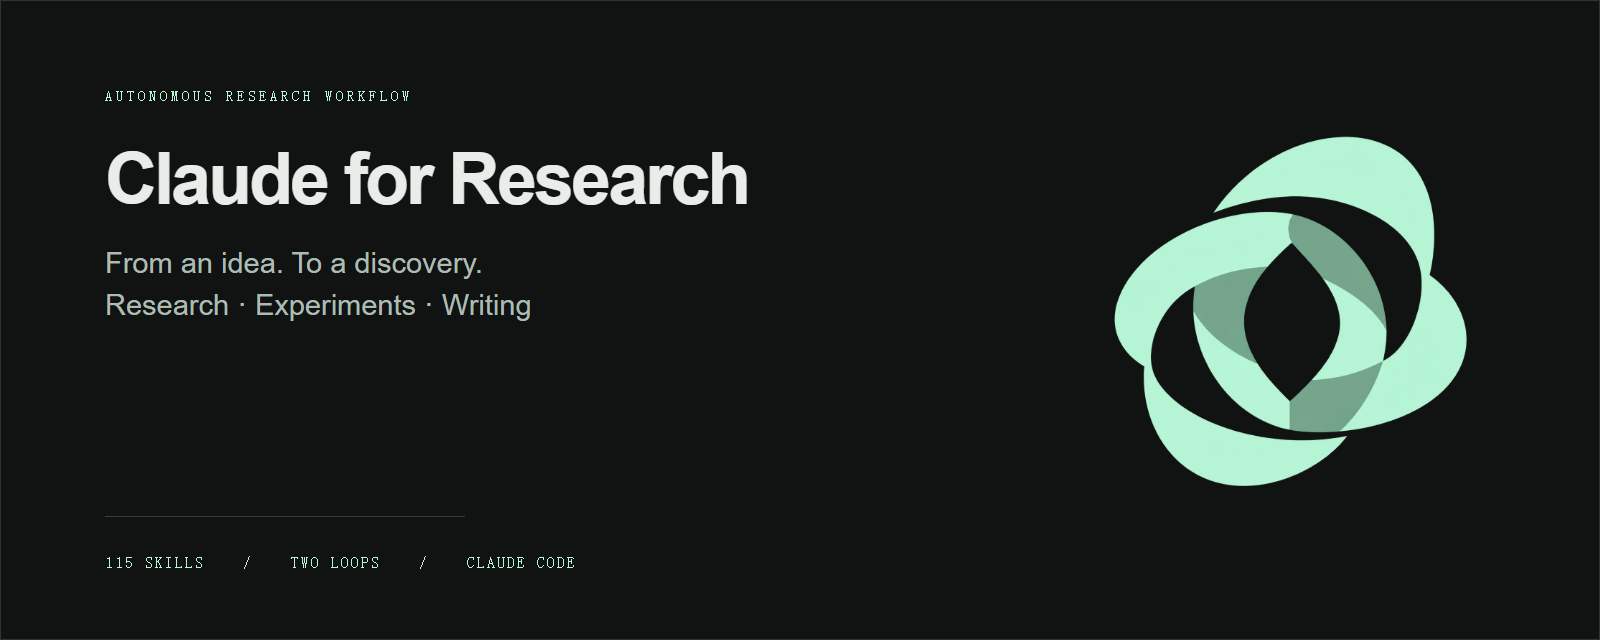
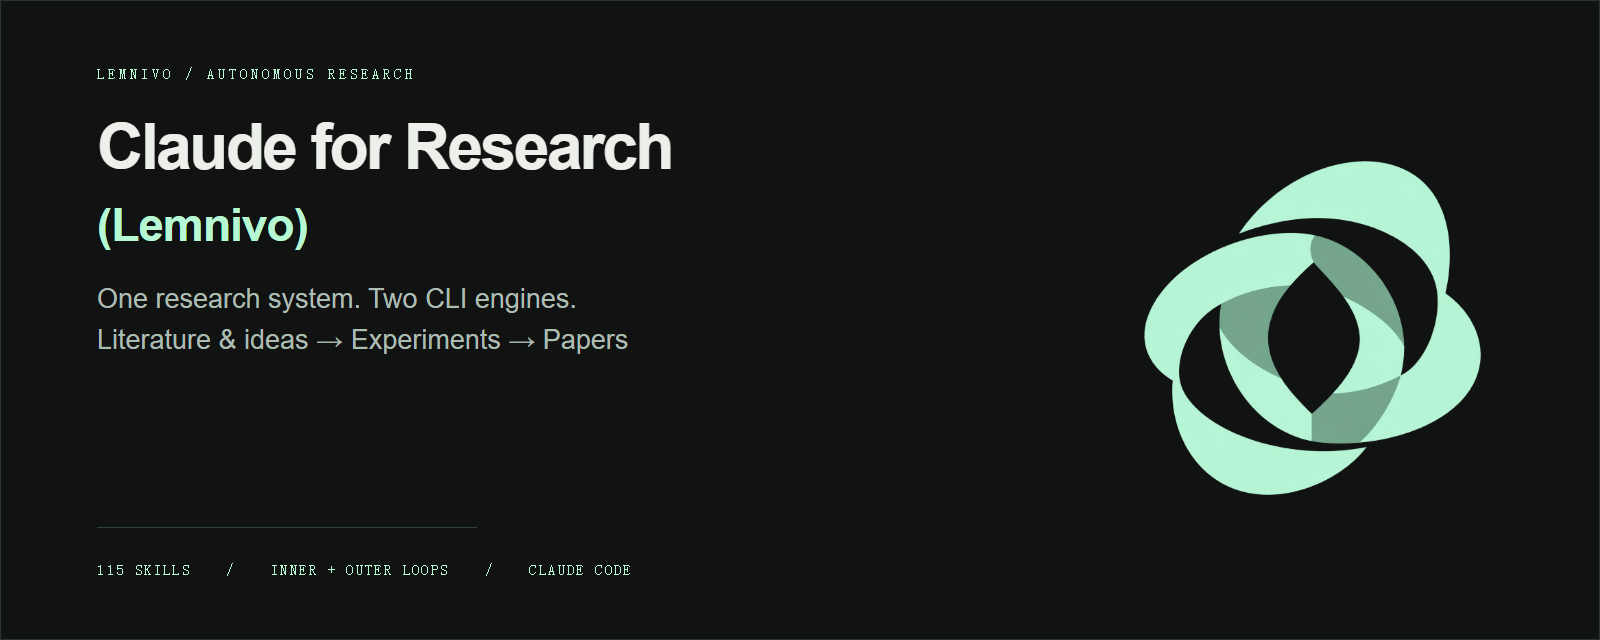
Introduce Lemnivo shared research brand and refresh bilingual homepage

diff --git a/README.md b/README.md
@@ -1,15 +1,15 @@
-<p align="center"><a href="https://yichen-zju.github.io/claude-for-research/"><img src="assets/research-cover.png" alt="Claude for Research — Turn your AI CLI into an autonomous research lab" width="100%"></a></p>
+<p align="center"><a href="https://yichen-zju.github.io/claude-for-research/"><img src="assets/research-cover.png?v=lemnivo-1" alt="Claude for Research (Lemnivo) — One research system. Two CLI engines." width="100%"></a></p>
 
-<h1 align="center">Claude for Research</h1>
-<p align="center"><strong>让想法，走到发现。<br>Turn your AI CLI into an autonomous research lab.</strong></p>
-<p align="center"><a href="https://yichen-zju.github.io/claude-for-research/?lang=zh">中文主页</a> · <a href="https://yichen-zju.github.io/claude-for-research/?lang=en">English website</a> · <a href="#quickstart">Quickstart</a> · <a href="https://github.com/Yichen-ZJU/codex-for-research">Codex for Research</a></p>
+<h1 align="center">Claude for Research (Lemnivo)</h1>
+<p align="center"><strong>一套自主科研体系，两种 CLI 引擎。<br>One research system. Two CLI engines.</strong><br>让想法，走到发现。 / From an idea. To a discovery.</p>
+<p align="center"><a href="https://yichen-zju.github.io/claude-for-research/?lang=zh">Lemnivo 中文主页</a> · <a href="https://yichen-zju.github.io/claude-for-research/?lang=en">Lemnivo in English</a> · <a href="#quickstart">Quickstart</a> · <a href="https://github.com/Yichen-ZJU/codex-for-research">Codex for Research (Lemnivo)</a></p>
 <p align="center"><img src="https://img.shields.io/badge/skills-115-B7F7D4?style=flat-square&amp;labelColor=101312" alt="115 skills"> <img src="https://img.shields.io/badge/engine-Claude%20Code-B7F7D4?style=flat-square&amp;labelColor=101312" alt="Claude Code"> <img src="https://img.shields.io/badge/workflow-research%20%E2%86%92%20experiments%20%E2%86%92%20papers-B7F7D4?style=flat-square&amp;labelColor=101312" alt="Research to experiments to papers"></p>
 
-把 **Claude Code** 变成一个自主科研工作台。从文献调研与选题，到无人值守的模型改进试验，再到论文写作与评审，由 **Research Orchestrator** 协调全程，115 个科研技能提供工作流与领域方法。
+**Lemnivo** 是运行在 Claude Code 与 Codex CLI 上的自主科研体系。**Claude for Research (Lemnivo)** 把 Claude Code 变成科研工作台：从深广度文献调研与 Idea 构思，到无人值守的模型改进试验，再到论文写作与评审，由 **Research Orchestrator** 协调全程，**115 个科研技能**提供工作流与领域方法。
 
-同一套技能目录也运行在 **Codex CLI** 上：选择习惯的 CLI，保留熟悉的科研流程。两个仓库各含 **115 个技能，技能名称集合一致**；工具调用与运行机制分别适配各自引擎。
+选择 **Claude Code** 或 **Codex CLI**，保留同一套 Lemnivo 科研流程。两个仓库各含 **115 个技能，技能名称集合一致**；工具调用与运行机制分别适配各自引擎。
 
-Equip **Claude Code** with an autonomous research workflow. **Research Orchestrator** coordinates literature and ideation, unattended model-improvement experiments, and writing and review. **115 skills** supply the research workflows and domain methods. The same skill catalogue runs on **Codex CLI**, with engine-specific tool adaptations.
+**Lemnivo** brings one autonomous research system to **Claude Code** and **Codex CLI**. **Claude for Research (Lemnivo)** equips Claude Code with broad and deep literature research, idea development, unattended model-improvement experiments, and paper writing and review. **Research Orchestrator** coordinates the whole journey, supported by **115 research skills** and nested experiment and reflection loops. The same skill catalogue runs on Codex CLI, with engine-specific tool adaptations.
 
 ## 一套流程，两层循环 / One workflow, two loops
 
